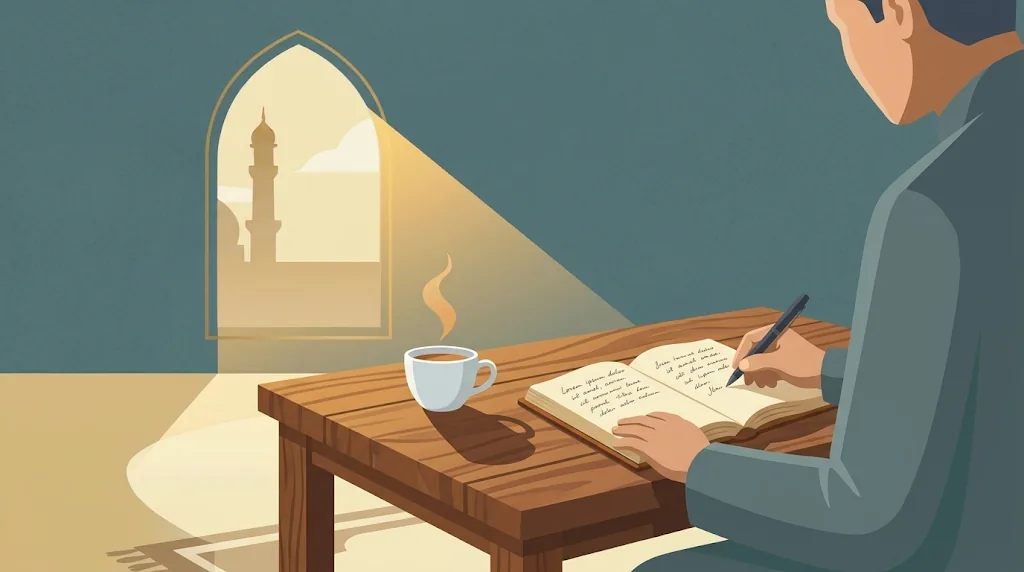
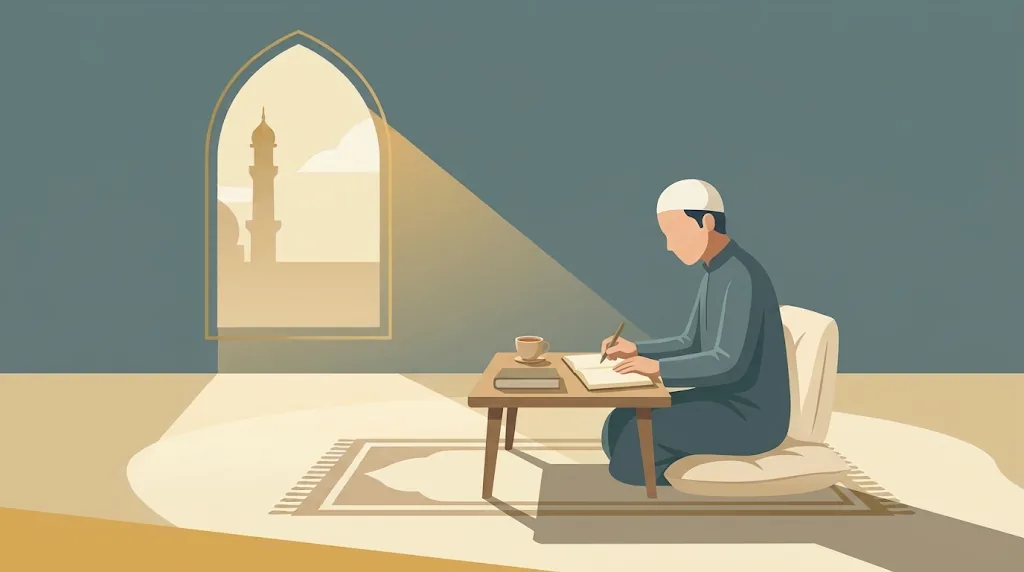
v213: Koran-dagboek: nieuw schrijf-plaatje (persoon zonder gezicht)
Claude-Session: https://claude.ai/code/session_01JY69Mb85zuQBDh23HPKC89

diff --git a/sw.js b/sw.js
@@ -1,6 +1,6 @@
 /* Islam Quiz – service worker (netwerk eerst, cache als terugval)
    Verhoog CACHE_VERSION bij elke release. Zo zien bezoekers altijd meteen de nieuwste versie. */
-const CACHE_VERSION = "islam-quiz-v212";
+const CACHE_VERSION = "islam-quiz-v213";
 const QURAN_CACHE = "iq-quran-1";   // Koran-tekst en -lettertype: blijven bewaard tussen versies (offline lezen)
 const PRECACHE = [];
 
